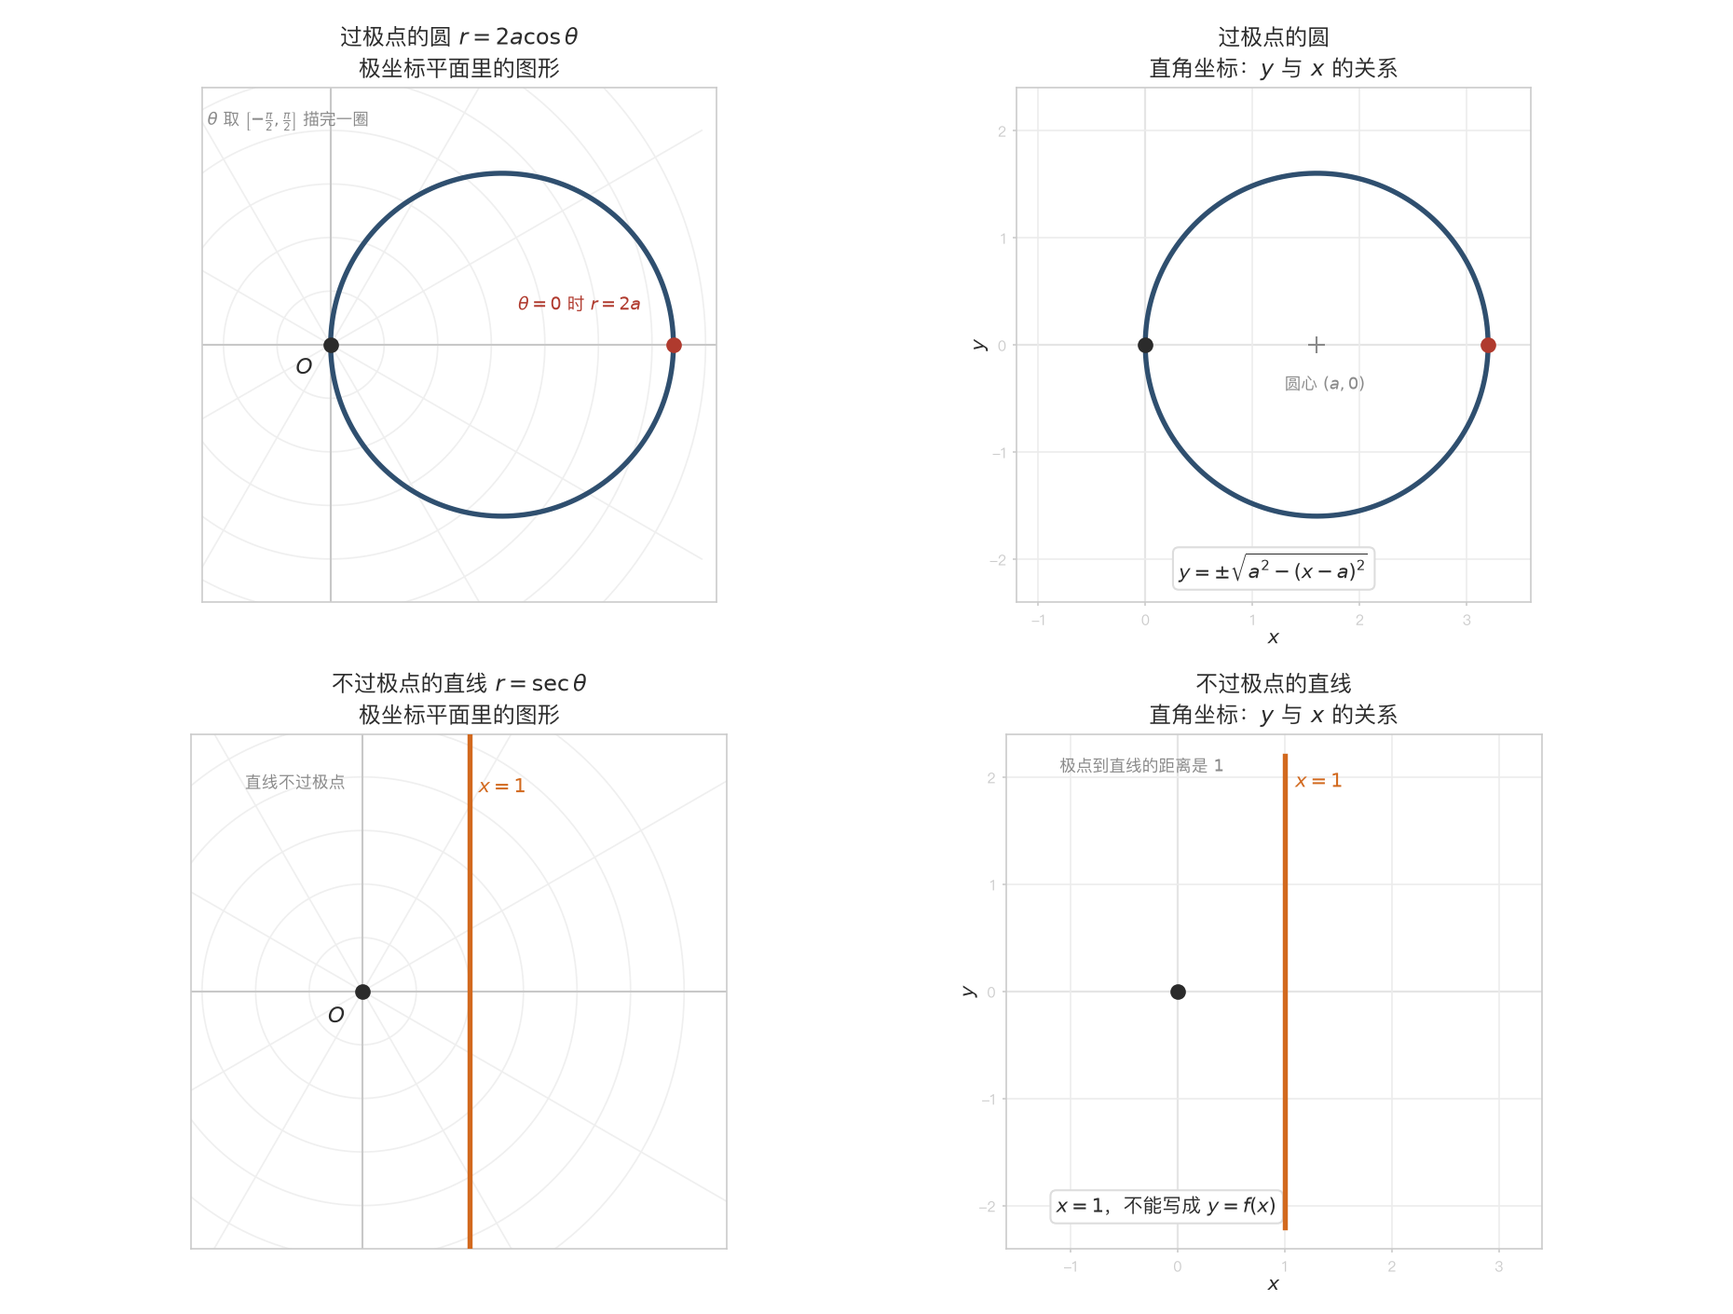
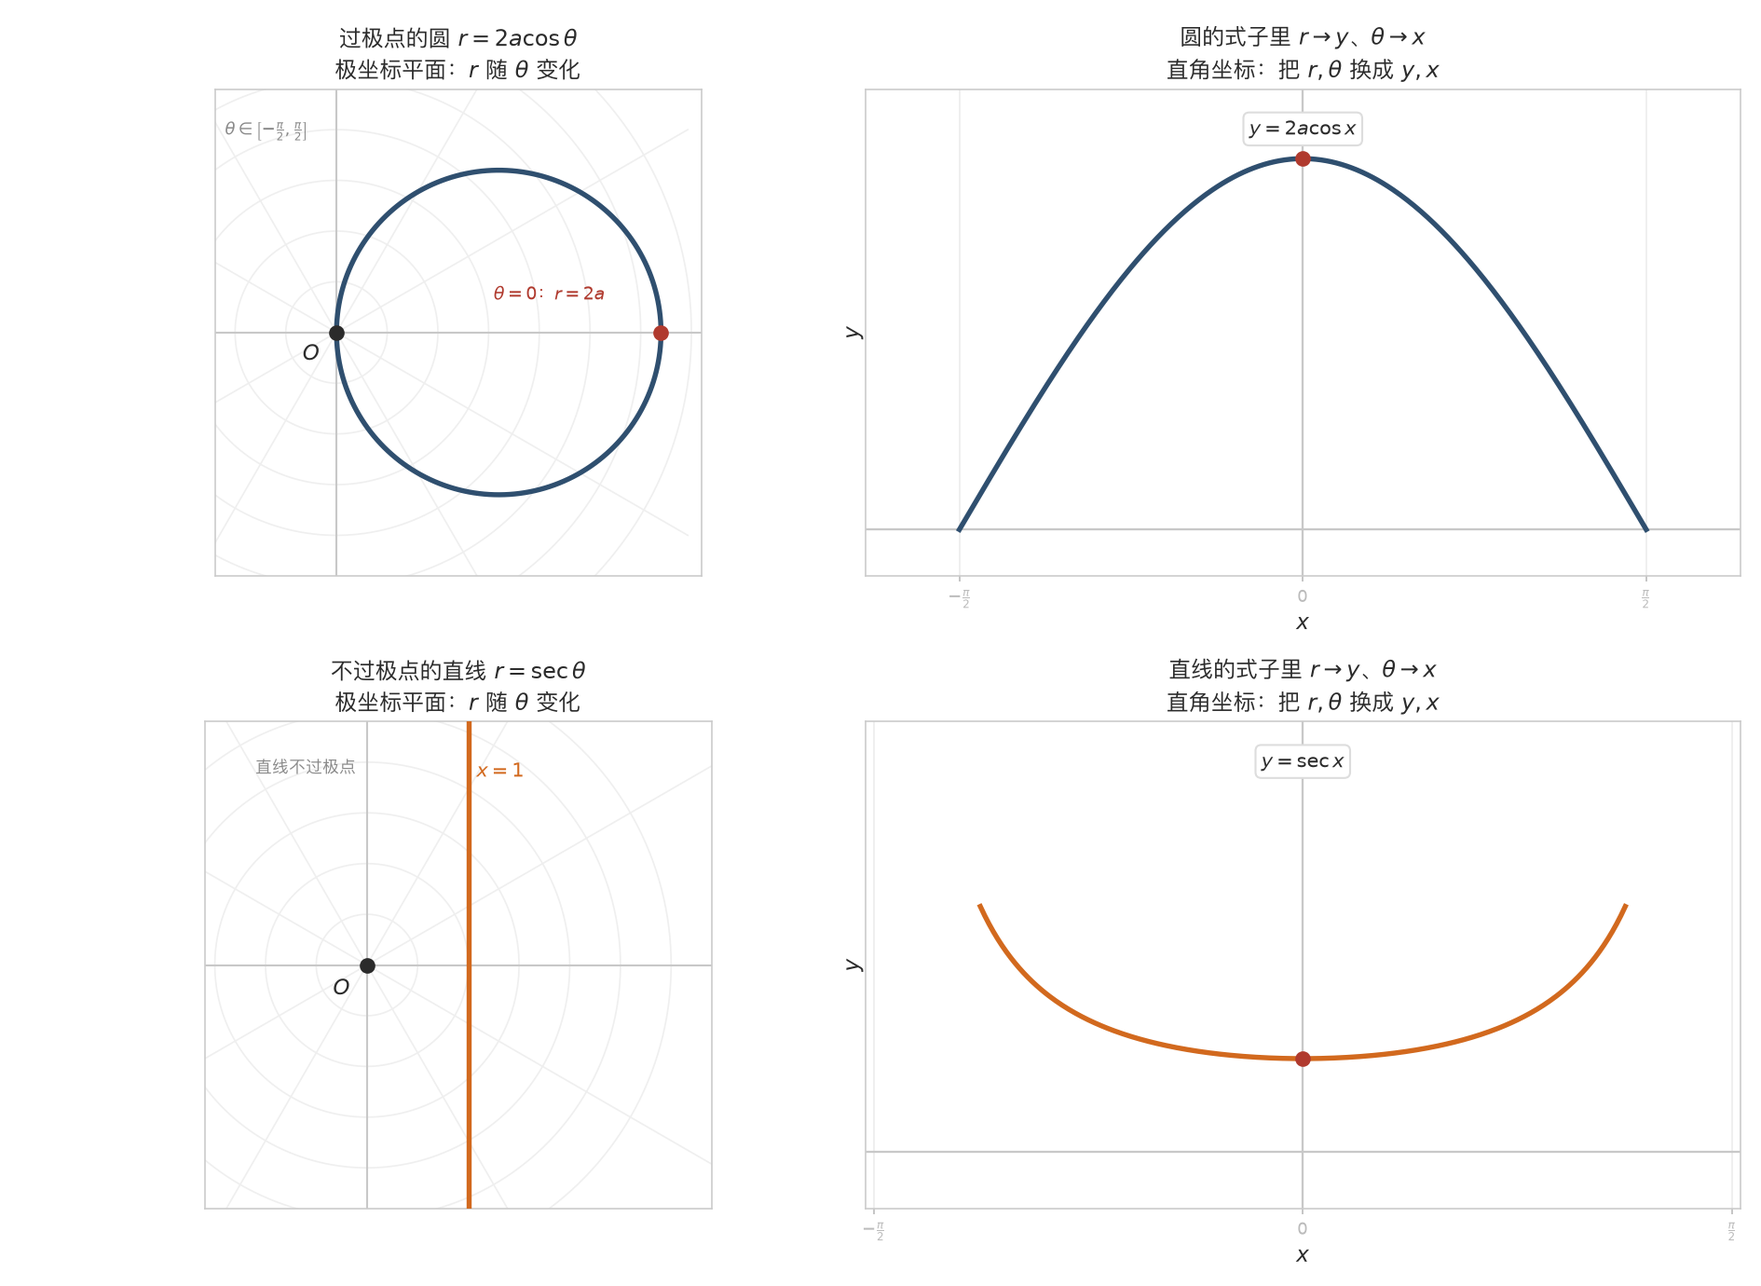
img: right panel shows r->y, theta->x function graph

diff --git a/img/kaoyan-math/make_polar_curve_figs.py b/img/kaoyan-math/make_polar_curve_figs.py
@@ -6,8 +6,7 @@ import numpy as np
 plt.rcParams["font.family"] = ["PingFang SC", "Arial Unicode MS", "DejaVu Sans"]
 plt.rcParams["axes.unicode_minus"] = False
 
-INK, ORANGE, BLUE = "#2b2b2b", "#d2691e", "#2f4f6f"
-RED, GREEN, GREY = "#b03a2e", "#4a7c59", "#8a8a8a"
+INK, ORANGE, BLUE, RED, GREEN, GREY = "#2b2b2b", "#d2691e", "#2f4f6f", "#b03a2e", "#4a7c59", "#8a8a8a"
 BASE = "/Users/fred/Documents/GitHub/cycleuser/blog/output/img/kaoyan-math/"
 F, T = 11.5, 12.0
 PI = np.pi
@@ -28,76 +27,52 @@ def polar_axes(ax, lim, title):
     ax.set_aspect("equal"); ax.set_xticks([]); ax.set_yticks([])
     for sp in ax.spines.values():
         sp.set_color("#cccccc")
-    ax.set_title(title + "\n极坐标平面里的图形", fontsize=T, color=INK, pad=6)
+    ax.set_title(title + "\n极坐标平面：$r$ 随 $\\theta$ 变化", fontsize=T, color=INK, pad=6)
 
 
-def cart_panel(ax, lim, title, eq, eqfont=None, note=""):
-    ax.set_xlim(-lim, lim); ax.set_ylim(-lim, lim)
-    ax.set_aspect("equal")
+def yx_axes(ax, xlim, ylim, title, eq, ticks=None, ticks_are_pi=True):
+    ax.set_xlim(*xlim); ax.set_ylim(*ylim)
     ax.grid(True, color="#ececec", lw=0.8)
-    ax.axhline(0, color="#c8c8c8", lw=1.0, zorder=1)
-    ax.axvline(0, color="#c8c8c8", lw=1.0, zorder=1)
-    tk = [-2, -1, 0, 1, 2]
-    tk = [t for t in tk if -lim < t < lim]
-    ax.set_xticks(tk); ax.set_yticks(tk)
-    ax.set_xticklabels([str(t) for t in tk], fontsize=F - 3.5, color="#999999")
-    ax.set_yticklabels([str(t) for t in tk], fontsize=F - 3.5, color="#999999")
-    ax.tick_params(length=2, colors="#cccccc")
-    for sp in ax.spines.values():
-        sp.set_color("#cccccc")
-    ax.set_xlabel("$x$", fontsize=F - 1, color=INK, labelpad=0)
-    ax.set_ylabel("$y$", fontsize=F - 1, color=INK, labelpad=0)
-    ax.set_title(title + "\n直角坐标：$y$ 与 $x$ 的关系", fontsize=T, color=INK, pad=6)
-    ax.text(0.5, 0.035, eq, transform=ax.transAxes,
-            fontsize=(eqfont if eqfont else F - 1.5), color=INK,
-            ha="center", va="bottom", bbox=BOX)
-    if note:
-        ax.text(0.5, 0.105, note, transform=ax.transAxes, fontsize=F - 3.5,
-                color=GREY, ha="center", va="bottom")
-
-
-def rtheta_axes(ax, trange, rrange, title, ticks=None):
-    ax.set_xlim(*trange); ax.set_ylim(*rrange)
-    ax.grid(True, color="#ececec", lw=0.8)
-    ax.axhline(0, color="#c8c8c8", lw=1.0, zorder=2)
-    ax.axvline(0, color="#c8c8c8", lw=1.0, zorder=2)
+    ax.axhline(0, color="#c8c8c8", lw=1.1, zorder=2)
+    ax.axvline(0, color="#c8c8c8", lw=1.1, zorder=2)
     if ticks is None:
-        ticks = [(0, "0"), (PI / 2, r"$\frac{\pi}{2}$"), (PI, r"$\pi$"),
-                 (3 * PI / 2, r"$\frac{3\pi}{2}$"), (2 * PI, r"$2\pi$")]
-    ax.set_xticks([t for t, _ in ticks])
-    ax.set_xticklabels([l for _, l in ticks], fontsize=F - 2, color=INK)
+        ticks = [0, PI / 2, PI, 3 * PI / 2, 2 * PI]
+    labels = [r"$0$", r"$\frac{\pi}{2}$", r"$\pi$", r"$\frac{3\pi}{2}$", r"$2\pi$"]
+    if ticks_are_pi:
+        ax.set_xticks(ticks)
+        ax.set_xticklabels(labels[:len(ticks)], fontsize=F - 2.5, color=INK)
     ax.set_yticks([])
     ax.tick_params(axis="x", colors="#bbbbbb", length=3)
     for sp in ax.spines.values():
         sp.set_color("#cccccc")
-    ax.set_title(title + "\n$r$ 作为 $\\theta$ 的函数", fontsize=T, color=INK, pad=6)
-    ax.set_xlabel(r"$\theta$", fontsize=F - 1, color=INK, labelpad=1)
-    ax.set_ylabel(r"$r$", fontsize=F - 1, color=INK, labelpad=1)
+    ax.set_title(title + "\n直角坐标：把 $r,\\theta$ 换成 $y,x$", fontsize=T, color=INK, pad=6)
+    ax.set_xlabel("$x$", fontsize=F, color=INK, labelpad=1)
+    ax.set_ylabel("$y$", fontsize=F, color=INK, labelpad=1)
+    ax.text(0.5, 0.94, eq, transform=ax.transAxes, fontsize=F - 1, color=INK,
+            ha="center", va="top", bbox=BOX)
 
 
 # ============ 1 心形线 ============
 a = 1.0
 th = np.linspace(0, 2 * np.pi, 2000)
 r = a * (1 + np.cos(th))
-X, Y = r * np.cos(th), r * np.sin(th)
-fig, axes = plt.subplots(1, 2, figsize=(12.4, 5.0), dpi=150)
+fig, axes = plt.subplots(1, 2, figsize=(12.6, 4.8), dpi=150)
 
 ax = axes[0]
 polar_axes(ax, 2.2, "心形线 $r=a(1+\\cos\\theta)$")
-ax.plot(X, Y, color=RED, lw=2.6, zorder=3)
+ax.plot(r * np.cos(th), r * np.sin(th), color=RED, lw=2.6, zorder=3)
 ax.plot([0], [0], "o", color=INK, ms=6, zorder=6)
 ax.plot([2 * a], [0], "o", color=BLUE, ms=7, zorder=6)
-ax.annotate("$\\theta=0$：$r=2a$", xy=(2 * a, 0), xytext=(0.20, 2.00),
-            fontsize=F - 2, color=BLUE, arrowprops=dict(arrowstyle="->", color=BLUE, lw=1.0))
-ax.annotate("$\\theta=\\pi$：$r=0$", xy=(0, 0), xytext=(-2.10, 1.55),
-            fontsize=F - 2, color=INK, arrowprops=dict(arrowstyle="->", color=GREY, lw=1.0))
+ax.text(1.75, 0.32, "$\\theta=0$：$r=2a$", fontsize=F - 2, color=BLUE)
+ax.text(-2.05, 1.75, "$\\theta=\\pi$：$r=0$", fontsize=F - 2, color=INK)
 
 ax = axes[1]
-cart_panel(ax, 2.4, "心形线", "$y=\\pm\\sqrt{\\left(\\dfrac{a+\\sqrt{a^{2}+4ax}}{2}\\right)^{2}-x^{2}}$", F - 4,
-           note="开方只给出上下两支，尖角附近还要再分段")
-ax.plot(X, Y, color=RED, lw=2.6, zorder=3)
-ax.plot([0], [0], "o", color=INK, ms=6, zorder=6)
-ax.plot([2 * a], [0], "o", color=BLUE, ms=7, zorder=6)
+yx_axes(ax, (-0.35, 2 * PI + 0.35), (-0.4, 2.5), "心形线的式子里 $r\\to y$、$\\theta\\to x$",
+        "$y=a(1+\\cos x)$")
+ax.plot(th, r, color=RED, lw=2.6, zorder=3)
+ax.plot([0, 2 * PI], [2, 2], "o", color=BLUE, ms=6, zorder=5)
+ax.plot([PI], [0], "o", color=INK, ms=6, zorder=5)
+ax.text(PI + 0.25, 0.42, "$x=\\pi$ 时 $y=0$", fontsize=F - 2.5, color=INK)
 
 fig.tight_layout(); fig.savefig(BASE + "pc-cardioid.png", dpi=150); plt.close(fig)
 
@@ -105,39 +80,27 @@ fig.tight_layout(); fig.savefig(BASE + "pc-cardioid.png", dpi=150); plt.close(fi
 # ============ 2 玫瑰线 ============
 r3 = np.sin(3 * th)
 r4 = np.cos(2 * th)
-fig, axes = plt.subplots(2, 2, figsize=(12.4, 9.6), dpi=150)
+fig, axes = plt.subplots(2, 2, figsize=(12.6, 9.2), dpi=150)
 
 ax = axes[0][0]
 polar_axes(ax, 1.35, "三叶玫瑰线 $r=a\\sin 3\\theta$")
 ax.plot(r3 * np.cos(th), r3 * np.sin(th), color=ORANGE, lw=2.4, zorder=3)
-for k in range(3):
-    ang = PI / 6 + k * 2 * PI / 3
-    ax.plot([0, np.cos(ang)], [0, np.sin(ang)], color=GREY, lw=0.9, ls=":", zorder=2)
-    ax.text(0.60 * np.cos(ang), 0.60 * np.sin(ang), "%d" % (k + 1), fontsize=F - 1,
-            color=ORANGE, ha="center", va="center")
-ax.text(-1.3, -1.24, "$n$ 为奇数：$n$ 片（这里 3 片）", fontsize=F - 2.5, color=INK)
+ax.text(-1.30, -1.22, "$n$ 为奇数：3 片", fontsize=F - 2.5, color=INK)
 
 ax = axes[0][1]
-cart_panel(ax, 1.45, "三叶玫瑰线", "$\\left(x^{2}+y^{2}\\right)^{2}=ay\\left(3x^{2}-y^{2}\\right)$", F - 3.5,
-           note="$y$ 是 $x$ 的四次隐函数，解不成初等式")
-ax.plot(r3 * np.cos(th), r3 * np.sin(th), color=ORANGE, lw=2.4, zorder=3)
-
+yx_axes(ax, (-0.35, 2 * PI + 0.35), (-1.45, 1.45), "三叶玫瑰线的式子里 $r\\to y$、$\\theta\\to x$",
+        "$y=a\\sin 3x$")
+ax.plot(th, r3, color=ORANGE, lw=2.4, zorder=3)
 
 ax = axes[1][0]
 polar_axes(ax, 1.35, "四叶玫瑰线 $r=a\\cos 2\\theta$")
 ax.plot(r4 * np.cos(th), r4 * np.sin(th), color=GREEN, lw=2.4, zorder=3)
-for k in range(4):
-    ang = k * PI / 2
-    ax.plot([0, np.cos(ang)], [0, np.sin(ang)], color=GREY, lw=0.9, ls=":", zorder=2)
-    ax.text(0.62 * np.cos(ang), 0.62 * np.sin(ang), "%d" % (k + 1), fontsize=F - 1,
-            color=GREEN, ha="center", va="center")
-ax.text(-1.3, -1.24, "$n$ 为偶数：$2n$ 片（这里 4 片）", fontsize=F - 2.5, color=INK)
+ax.text(-1.30, -1.22, "$n$ 为偶数：4 片", fontsize=F - 2.5, color=INK)
 
 ax = axes[1][1]
-cart_panel(ax, 1.45, "四叶玫瑰线", "$\\left(x^{2}+y^{2}\\right)^{3}=a^{2}\\left(x^{2}-y^{2}\\right)^{2}$", F - 3.5,
-           note="$y$ 是 $x$ 的六次隐函数，解不成初等式")
-ax.plot(r4 * np.cos(th), r4 * np.sin(th), color=GREEN, lw=2.4, zorder=3)
-
+yx_axes(ax, (-0.35, 2 * PI + 0.35), (-1.45, 1.45), "四叶玫瑰线的式子里 $r\\to y$、$\\theta\\to x$",
+        "$y=a\\cos 2x$")
+ax.plot(th, r4, color=GREEN, lw=2.4, zorder=3)
 
 fig.tight_layout(); fig.savefig(BASE + "pc-rose.png", dpi=150); plt.close(fig)
 
@@ -146,88 +109,69 @@ fig.tight_layout(); fig.savefig(BASE + "pc-rose.png", dpi=150); plt.close(fig)
 a = 1.2
 t2 = np.concatenate([np.linspace(-PI / 4, PI / 4, 900), np.linspace(3 * PI / 4, 5 * PI / 4, 900)])
 r2 = a * np.sqrt(np.cos(2 * t2))
-X2, Y2 = r2 * np.cos(t2), r2 * np.sin(t2)
-fig, axes = plt.subplots(1, 2, figsize=(12.4, 5.2), dpi=150)
+fig, axes = plt.subplots(1, 2, figsize=(12.6, 4.8), dpi=150)
 
 ax = axes[0]
 polar_axes(ax, 1.75, "双纽线 $r^{2}=a^{2}\\cos 2\\theta$")
-ax.plot(X2, Y2, color=BLUE, lw=2.6, zorder=3)
+ax.plot(r2 * np.cos(t2), r2 * np.sin(t2), color=BLUE, lw=2.6, zorder=3)
 ax.plot([0], [0], "o", color=INK, ms=6, zorder=6)
 ax.plot([a, -a], [0, 0], "o", color=RED, ms=7, zorder=6)
-ax.text(a + 0.07, 0.15, "顶点", fontsize=F - 3, color=RED)
-ax.text(-a - 0.55, 0.15, "顶点", fontsize=F - 3, color=RED)
-ax.text(-1.70, -1.30, "只有 $\\cos 2\\theta\\geq0$ 的部分有图形", fontsize=F - 2.5, color=INK)
+ax.text(-1.70, -1.32, "只在 $\\cos 2\\theta\\geq0$ 处有图形", fontsize=F - 2.5, color=INK)
 
 ax = axes[1]
-cart_panel(ax, 1.85, "双纽线", "$y=\\pm\\sqrt{\\dfrac{a\\sqrt{8x^{2}+a^{2}}-\\left(2x^{2}+a^{2}\\right)}{2}}$", F - 4,
-           note="开方给出上下两支")
-ax.plot(X2, Y2, color=BLUE, lw=2.6, zorder=3)
-ax.plot([0], [0], "o", color=INK, ms=6, zorder=6)
-ax.plot([a, -a], [0, 0], "o", color=RED, ms=7, zorder=6)
+yx_axes(ax, (-1.15, 4.35), (-1.50, 1.55), "双纽线的式子里 $r\\to y$、$\\theta\\to x$",
+        "$y^{2}=a^{2}\\cos 2x$", ticks=[0, PI / 2, PI], )
+ax.set_xticks([0, PI / 2, PI])
+ax.set_xticklabels([r"$0$", r"$\frac{\pi}{2}$", r"$\pi$"], fontsize=F - 2.5, color=INK)
+tt = np.linspace(-PI / 4, PI / 4, 500)
+ax.plot(tt, a * np.sqrt(np.cos(2 * tt)), color=BLUE, lw=2.6, zorder=3)
+ax.plot(tt, -a * np.sqrt(np.cos(2 * tt)), color=BLUE, lw=2.6, zorder=3)
+tt2 = np.linspace(3 * PI / 4, 5 * PI / 4, 500)
+ax.plot(tt2, a * np.sqrt(np.cos(2 * tt2)), color=BLUE, lw=2.6, zorder=3)
+ax.plot(tt2, -a * np.sqrt(np.cos(2 * tt2)), color=BLUE, lw=2.6, zorder=3)
+for st in (-PI / 4, PI / 4, 3 * PI / 4, 5 * PI / 4):
+    ax.axvline(st, color="#e0c8c8", lw=1.0, ls="--", zorder=1)
+ax.text(0.15, 1.32, "$\\cos 2x\\geq0$ 的两段各画出一对分支", fontsize=F - 3, color=BLUE)
 
 fig.tight_layout(); fig.savefig(BASE + "pc-lemniscate.png", dpi=150); plt.close(fig)
 
 
 # ============ 4 阿基米德螺线 ============
-fig, axes = plt.subplots(1, 2, figsize=(12.4, 5.0), dpi=150)
+fig, axes = plt.subplots(1, 2, figsize=(12.6, 4.8), dpi=150)
 th3 = np.linspace(0, 3 * PI, 1200)
 r3s = 0.5 * th3
-i0 = np.argmin(np.abs(th3 - 4 * PI / 3))
-t0, r0 = th3[i0], r3s[i0]
-x0, y0 = r0 * np.cos(t0), r0 * np.sin(t0)
 
 ax = axes[0]
 polar_axes(ax, 5.0, "阿基米德螺线 $r=a\\theta$")
 ax.plot(r3s * np.cos(th3), r3s * np.sin(th3), color=ORANGE, lw=2.4, zorder=3)
-ax.plot([0, x0], [0, y0], color=GREY, lw=1.0, ls=":", zorder=4)
-ax.plot([x0], [y0], "o", color=RED, ms=7, zorder=6)
-ax.annotate("$P\\left(r_0,\\ \\theta_0\\right)$", xy=(x0, y0), xytext=(-4.85, -3.55),
-            fontsize=F - 1.5, color=RED, arrowprops=dict(arrowstyle="->", color=RED, lw=1.0))
 ax.text(-4.85, 4.55, "每转一圈，$r$ 加 $2\\pi a$", fontsize=F - 2, color=INK)
 
 ax = axes[1]
-cart_panel(ax, 5.0, "阿基米德螺线", "$\\sqrt{x^{2}+y^{2}}=a\\arctan\\frac{y}{x}$", F - 3,
-           note="左端含反正切，$y$ 解不成 $x$ 的初等式")
-ax.plot(r3s * np.cos(th3), r3s * np.sin(th3), color=ORANGE, lw=2.4, zorder=3)
-ax.plot([x0, x0], [0, y0], color=GREY, lw=0.9, ls="--", zorder=2)
-ax.plot([0, x0], [y0, y0], color=GREY, lw=0.9, ls="--", zorder=2)
-ax.plot([x0], [y0], "o", color=RED, ms=7, zorder=6)
-ax.plot([0], [0], "o", color=INK, ms=5, zorder=6)
-ax.text(x0 - 0.30, y0 - 0.50, "$P\\left(x_0,\\ y_0\\right)$", fontsize=F - 1.5, color=RED, ha="right")
-ax.text(x0 + 0.22, 0.20, "$x_0$", fontsize=F - 2, color=GREY)
-ax.text(0.22, y0 - 0.20, "$y_0$", fontsize=F - 2, color=GREY)
+yx_axes(ax, (-0.35, 3 * PI + 0.35), (-0.6, 5.4), "阿基米德螺线的式子里 $r\\to y$、$\\theta\\to x$",
+        "$y=ax$", ticks=[0, PI, 2 * PI, 3 * PI])
+ax.set_xticks([0, PI, 2 * PI, 3 * PI])
+ax.set_xticklabels([r"$0$", r"$\pi$", r"$2\pi$", r"$3\pi$"], fontsize=F - 2.5, color=INK)
+ax.plot(th3, r3s, color=ORANGE, lw=2.6, zorder=3)
 
 fig.tight_layout(); fig.savefig(BASE + "pc-spiral-arch.png", dpi=150); plt.close(fig)
 
 
 # ============ 5 对数螺线 ============
-fig, axes = plt.subplots(1, 2, figsize=(12.4, 5.0), dpi=150)
+fig, axes = plt.subplots(1, 2, figsize=(12.6, 4.8), dpi=150)
 th4 = np.linspace(0, 3 * PI, 1600)
 r4s = np.exp(0.28 * th4)
-k0 = np.argmin(np.abs(th4 - 7 * PI / 4))
-t0, r0 = th4[k0], r4s[k0]
-x0, y0 = r0 * np.cos(t0), r0 * np.sin(t0)
 
 ax = axes[0]
 polar_axes(ax, 14.6, "对数螺线 $r=e^{a\\theta}$")
 ax.plot(r4s * np.cos(th4), r4s * np.sin(th4), color=GREEN, lw=2.2, zorder=3)
-ax.plot([0, x0], [0, y0], color=GREY, lw=1.0, ls=":", zorder=4)
-ax.plot([x0], [y0], "o", color=RED, ms=7, zorder=6)
-ax.annotate("$P\\left(r_0,\\ \\theta_0\\right)$", xy=(x0, y0), xytext=(-14.2, -5.6),
-            fontsize=F - 1.5, color=RED, arrowprops=dict(arrowstyle="->", color=RED, lw=1.0))
 ax.text(-14.2, 12.2, "每转一圈，$r$ 乘 $e^{2\\pi a}$", fontsize=F - 2, color=INK)
 
 ax = axes[1]
-cart_panel(ax, 14.6, "对数螺线", "$\\sqrt{x^{2}+y^{2}}=e^{a\\arctan\\frac{y}{x}}$", F - 3,
-           note="左端含反正切，$y$ 解不成 $x$ 的初等式")
-ax.plot(r4s * np.cos(th4), r4s * np.sin(th4), color=GREEN, lw=2.2, zorder=3)
-ax.plot([x0, x0], [0, y0], color=GREY, lw=0.9, ls="--", zorder=2)
-ax.plot([0, x0], [y0, y0], color=GREY, lw=0.9, ls="--", zorder=2)
-ax.plot([x0], [y0], "o", color=RED, ms=7, zorder=6)
-ax.plot([0], [0], "o", color=INK, ms=5, zorder=6)
-ax.text(x0 + 0.5, y0 - 1.5, "$P\\left(x_0,\\ y_0\\right)$", fontsize=F - 1.5, color=RED, ha="left")
-ax.text(x0 + 0.5, 0.5, "$x_0$", fontsize=F - 2, color=GREY)
-ax.text(0.45, y0 + 0.55, "$y_0$", fontsize=F - 2, color=GREY)
+yx_axes(ax, (-0.35, 3 * PI + 0.35), (-0.6, 15.2), "对数螺线的式子里 $r\\to y$、$\\theta\\to x$",
+        "$y=e^{ax}$", ticks=[0, PI, 2 * PI, 3 * PI])
+ax.set_xticks([0, PI, 2 * PI, 3 * PI])
+ax.set_xticklabels([r"$0$", r"$\pi$", r"$2\pi$", r"$3\pi$"], fontsize=F - 2.5, color=INK)
+ax.plot(th4, r4s, color=GREEN, lw=2.6, zorder=3)
 
 fig.tight_layout(); fig.savefig(BASE + "pc-spiral-log.png", dpi=150); plt.close(fig)
 print("done")

diff --git a/img/kaoyan-math/make_polar_more.py b/img/kaoyan-math/make_polar_more.py
@@ -27,7 +27,7 @@ def frame(ax, xlim, ylim, title):
 PI = np.pi
 BOX = dict(boxstyle="round,pad=0.3", facecolor="white", edgecolor="#dddddd")
 F2, T2 = 11.0, 11.5
-fig, axes = plt.subplots(2, 2, figsize=(12.4, 9.4), dpi=150)
+fig, axes = plt.subplots(2, 2, figsize=(12.6, 9.2), dpi=150)
 a = 1.6
 
 
@@ -44,39 +44,24 @@ def polar_style(ax, xlim, ylim, title):
     ax.set_aspect("equal"); ax.set_xticks([]); ax.set_yticks([])
     for sp in ax.spines.values():
         sp.set_color("#cccccc")
-    ax.set_title(title + "\n极坐标平面里的图形", fontsize=T2, color=INK, pad=6)
+    ax.set_title(title + "\n极坐标平面：$r$ 随 $\\theta$ 变化", fontsize=T2, color=INK, pad=6)
 
 
-def cart_style(ax, xlim, ylim, title, eq, boxpos=(0.5, 0.035)):
+def yx_style(ax, xlim, ylim, title, eq, xticks, xlabels):
     ax.set_xlim(*xlim); ax.set_ylim(*ylim)
-    ax.set_aspect("equal"); ax.grid(True, color="#ececec", lw=0.8)
-    ax.axhline(0, color="#c8c8c8", lw=1.0, zorder=1)
-    ax.axvline(0, color="#c8c8c8", lw=1.0, zorder=1)
-    tk = [t for t in (-2, -1, 0, 1, 2, 3) if xlim[0] < t < xlim[1]]
-    ax.set_xticks(tk); ax.set_xticklabels([str(t) for t in tk], fontsize=F2 - 3.5, color="#999999")
-    tkY = [t for t in (-2, -1, 0, 1, 2) if ylim[0] < t < ylim[1]]
-    ax.set_yticks(tkY); ax.set_yticklabels([str(t) for t in tkY], fontsize=F2 - 3.5, color="#999999")
-    ax.tick_params(length=2, colors="#cccccc")
-    ax.set_xlabel("$x$", fontsize=F2 - 1, color=INK, labelpad=0)
-    ax.set_ylabel("$y$", fontsize=F2 - 1, color=INK, labelpad=0)
-    for sp in ax.spines.values():
-        sp.set_color("#cccccc")
-    ax.set_title(title + "\n直角坐标：$y$ 与 $x$ 的关系", fontsize=T2, color=INK, pad=6)
-    ax.text(boxpos[0], boxpos[1], eq, transform=ax.transAxes, fontsize=F2 - 1,
-            color=INK, ha="center", va="bottom", bbox=BOX)
-
-
-def rt_style(ax, xlim, ylim, title, xt, xl):
-    ax.set_xlim(*xlim); ax.set_ylim(*ylim); ax.grid(True, color="#ececec", lw=0.8)
-    ax.axhline(0, color="#c8c8c8", lw=1.0)
-    ax.axvline(0, color="#c8c8c8", lw=1.0)
-    ax.set_xticks(xt); ax.set_xticklabels(xl, fontsize=F2 - 2, color=INK)
+    ax.grid(True, color="#ececec", lw=0.8)
+    ax.axhline(0, color="#c8c8c8", lw=1.1, zorder=2)
+    ax.axvline(0, color="#c8c8c8", lw=1.1, zorder=2)
+    ax.set_xticks(xticks); ax.set_xticklabels(xlabels, fontsize=F2 - 2.5, color=INK)
     ax.set_yticks([])
+    ax.tick_params(axis="x", colors="#bbbbbb", length=3)
     for sp in ax.spines.values():
         sp.set_color("#cccccc")
-    ax.set_title(title + "\n$r$ 作为 $\\theta$ 的函数", fontsize=T2, color=INK, pad=6)
-    ax.set_xlabel(r"$\theta$", fontsize=F2 - 1, color=INK, labelpad=1)
-    ax.set_ylabel(r"$r$", fontsize=F2 - 1, color=INK, labelpad=1)
+    ax.set_title(title + "\n直角坐标：把 $r,\\theta$ 换成 $y,x$", fontsize=T2, color=INK, pad=6)
+    ax.set_xlabel("$x$", fontsize=F2, color=INK, labelpad=1)
+    ax.set_ylabel("$y$", fontsize=F2, color=INK, labelpad=1)
+    ax.text(0.5, 0.94, eq, transform=ax.transAxes, fontsize=F2 - 1, color=INK,
+            ha="center", va="top", bbox=BOX)
 
 
 # 第一行：圆
@@ -87,16 +72,14 @@ ax.plot(2 * a * np.cos(tt) ** 2, 2 * a * np.cos(tt) * np.sin(tt), color=BLUE, lw
 ax.plot([0], [0], "o", color=INK, ms=7, zorder=6)
 ax.plot([2 * a], [0], "o", color=RED, ms=7, zorder=6)
 ax.text(-0.16, -0.28, "$O$", fontsize=F2, color=INK, ha="right")
-ax.text(1.75, 0.32, "$\\theta=0$ 时 $r=2a$", fontsize=F2 - 2, color=RED)
-ax.text(-1.15, 2.05, "$\\theta$ 取 $\\left[-\\frac{\\pi}{2},\\frac{\\pi}{2}\\right]$ 描完一圈", fontsize=F2 - 2.5, color=GREY)
+ax.text(1.55, 0.32, "$\\theta=0$：$r=2a$", fontsize=F2 - 2, color=RED)
+ax.text(-1.10, 1.95, "$\\theta\\in\\left[-\\frac{\\pi}{2},\\frac{\\pi}{2}\\right]$", fontsize=F2 - 2.5, color=GREY)
 
 ax = axes[0][1]
-cart_style(ax, (-1.2, 3.6), (-2.4, 2.4), "过极点的圆", "$y=\\pm\\sqrt{a^{2}-\\left(x-a\\right)^{2}}$")
-ax.plot(2 * a * np.cos(tt) ** 2, 2 * a * np.cos(tt) * np.sin(tt), color=BLUE, lw=2.6, zorder=3)
-ax.plot([0], [0], "o", color=INK, ms=7, zorder=6)
-ax.plot([2 * a], [0], "o", color=RED, ms=7, zorder=6)
-ax.plot([a], [0], "+", color=GREY, ms=9, zorder=6)
-ax.text(a - 0.30, -0.42, "圆心 $(a,0)$", fontsize=F2 - 2.5, color=GREY)
+yx_style(ax, (-2.0, 2.0), (-0.4, 3.8), "圆的式子里 $r\\to y$、$\\theta\\to x$",
+         "$y=2a\\cos x$", [-PI / 2, 0, PI / 2], [r"$-\frac{\pi}{2}$", "$0$", r"$\frac{\pi}{2}$"])
+ax.plot(tt, 2 * a * np.cos(tt), color=BLUE, lw=2.6, zorder=3)
+ax.plot([0], [2 * a], "o", color=RED, ms=7, zorder=5)
 
 # 第二行：直线
 ax = axes[1][0]
@@ -109,11 +92,10 @@ ax.text(1.08, 1.85, "$x=1$", fontsize=F2 - 1, color=ORANGE)
 ax.text(-1.10, 1.90, "直线不过极点", fontsize=F2 - 2.5, color=GREY)
 
 ax = axes[1][1]
-cart_style(ax, (-1.6, 3.4), (-2.4, 2.4), "不过极点的直线", "$x=1$，不能写成 $y=f(x)$", boxpos=(0.30, 0.06))
-ax.plot([1, 1], [-2.2, 2.2], color=ORANGE, lw=2.6, zorder=3)
-ax.plot([0], [0], "o", color=INK, ms=7, zorder=6)
-ax.text(1.10, 1.90, "$x=1$", fontsize=F2 - 1, color=ORANGE)
-ax.text(-1.10, 2.05, "极点到直线的距离是 $1$", fontsize=F2 - 2.5, color=GREY)
+yx_style(ax, (-1.6, 1.6), (-0.6, 4.6), "直线的式子里 $r\\to y$、$\\theta\\to x$",
+         "$y=\\sec x$", [-PI / 2, 0, PI / 2], [r"$-\frac{\pi}{2}$", "$0$", r"$\frac{\pi}{2}$"])
+ax.plot(tt2, 1 / np.cos(tt2), color=ORANGE, lw=2.6, zorder=3)
+ax.plot([0], [1], "o", color=RED, ms=7, zorder=5)
 
 fig.tight_layout(); fig.savefig(BASE + "pc-circle-line.png", dpi=150); plt.close(fig)
 
